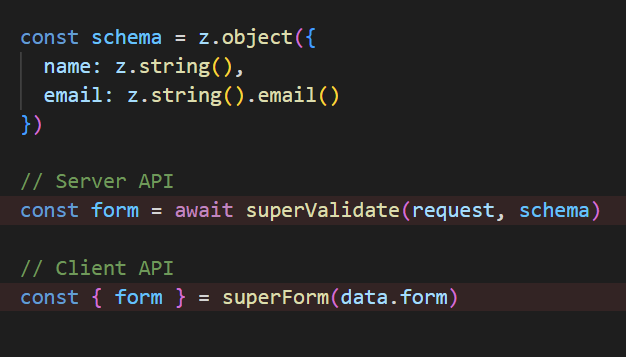
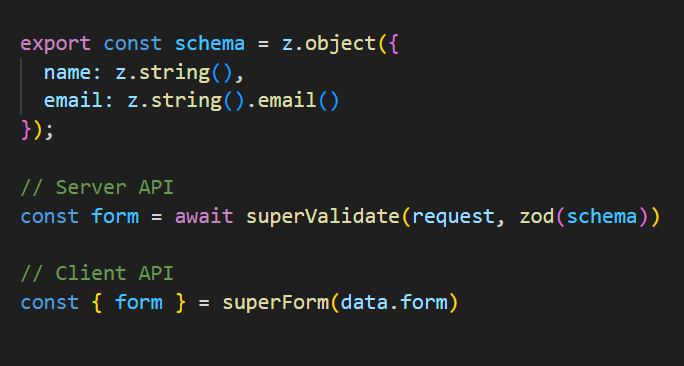
WIP

diff --git a/src/routes/Gallery.svelte b/src/routes/Gallery.svelte
@@ -14,22 +14,22 @@
     [
       nesteddata,
       'Nested data',
-      'Use any kind of nested data structure with Superforms. Coercion to and from Date, arrays, etc, is automatic.'
+      'Use any kind of <a href="/concepts/nested-data/">nested data structure</a> with Superforms. Coercion to and from Date, arrays, etc, is automatic.'
     ],
     [
       multipleforms,
       'Multiple forms on the same page',
-      'Superforms handles multiple forms in a straightforward manner, without you having to worry about collisions in <code>PageData</code> and <code>ActionData</code>.'
+      'Superforms handles <a href="/concepts/multiple-forms/">multiple forms</a> in a straightforward manner, without you having to worry about collisions in <code>PageData</code> and <code>ActionData</code>.'
     ],
     [
       tainted,
       'Tainted fields',
-      'Prevent data loss by alerting the user, when navigating away from a modified form.'
+      'Prevent data loss by <a href="/concepts/tainted/">marking fields as tainted</a> and alerting the user, when navigating away from a modified form.'
     ],
     [
       clientvalidation,
       'Client-side validation',
-      'Real time client-side validation, with automatic centering and focusing on error fields.'
+      'Real time <a href="/concepts/client-validation/">client-side validation</a>, with automatic centering and <a href="/concepts/error-handling/#errorselector">focusing on error fields</a>.'
     ],
     [
       spinner,

diff --git a/src/routes/get-started/[...lib]/+page.md b/src/routes/get-started/[...lib]/+page.md
@@ -235,11 +235,11 @@ The Superform server API is called `superValidate`. You can call it in two ways 
 
 ### Empty form
 
-If you want the form to be initially empty, just pass the schema as in the example above, and it will be filled with default values based on the schema. For example, a `string` field results in an empty string, unless you have set a default.
+If you want the form to be initially empty, just pass the adapter as in the example above, and the form will be filled with default values based on the schema. For example, a `string` field results in an empty string, unless you have set a default.
 
 ### Populate form from database
 
-If you want to populate the form, you can send data to the form as the first parameter, schema second, like this:
+If you want to populate the form, you can send data to `superValidate` as the first parameter, adapter second, like this:
 
 ```ts
 export const load = async ({ params }) => {
@@ -256,17 +256,17 @@ export const load = async ({ params }) => {
 };
 ```
 
-As long as the data partially matches the schema, you can pass it directly to `superValidate`. This is especially useful for backend interfaces, where the form usually should be populated based on a url like `/users/123`.
+As long as the data partially matches the schema, you can pass it directly to `superValidate`. This is useful for backend interfaces, where the form should usually be populated based on a url like `/users/123`.
 
-> Errors will be displayed as default when the form is populated, but not when empty. You can modify this behavior [with an option](/concepts/error-handling#initial-form-errors).
+> Errors will be displayed when the form is populated, but not when empty. You can modify this behavior [with an option](/concepts/error-handling#initial-form-errors).
 
 ### Important note about return values
 
-Unless you call `redirect` or `error`, you should **always** return the form object to the client, either directly or through a helper function. The name of the variable doesn't matter; you can call it `{ loginForm }` or anything else, but it needs to be returned like this in all code paths that returns, both in load functions and form actions.
+Unless you call the SvelteKit `redirect` or `error` functions, you should **always** return the form object to the client, either directly or through a helper function. The name of the variable doesn't matter; you can call it `{ loginForm }` or anything else, but it needs to be returned like this in all code paths that returns, both in load functions and form actions.
 
 ### Displaying the form
 
-The `superValidate` function returns the data required to instantiate a form on the client, which is now available in `+page.svelte` as `data.form`, as we did `return { form }`. There, we'll use the client part of the API:
+The `superValidate` function returns the data required to instantiate a form on the client, now available in `+page.svelte` as `data.form`, as we did `return { form }`. There, we'll use the client part of the API:
 
 **src/routes/+page.svelte**
 
@@ -301,7 +301,7 @@ This is what the form should look like now:
 
 ### Debugging
 
-We can see that the form has been populated with the default values. However, let's add the debugging component [SuperDebug](/super-debug) to gain more insight:
+We can see that the form has been populated with the default values. But let's add the debugging component [SuperDebug](/super-debug) to gain more insight:
 
 **src/routes/+page.svelte**
 
@@ -373,12 +373,12 @@ This is the validation object returned from `superValidate`, containing the data
 | **posted**      | Tells you if the data was posted (in a form action) or not (in a load function).                                                                                                       |
 | **data**        | The posted data, which should be returned to the client using `fail` if not valid.                                                                                                     |
 | **errors**      | An object with all validation errors, in a structure reflecting the data.                                                                                                              |
+| **message**     | (optional) Can be set as a [status message](/concepts/messages). |
 
-There are some optional properties as well, only being sent in the load function:
+There are some other properties as well, that are only being sent in the load function:
 
 | Property           | Purpose |
 | ------------------ | ------- |
-| **message**     | Can be set as a [status message](/concepts/messages). |
 | **constraints** | An object with [HTML validation constraints](https://developer.mozilla.org/en-US/docs/Learn/Forms/Form_validation#using_built-in_form_validation), that can be spread on input fields. |
 | **shape**       | Used internally in error handling. |
 
@@ -437,7 +437,7 @@ There are no hidden DOM manipulations or other secrets; it's just HTML attribute
 
 As a last step, let's add progressive enhancement, so the JS users will have a better experience. It's also required to use for example client-side validation and events, and of course to avoid reloading the page when the form is posted.
 
-This is simply added with `enhance`, returned from `superForm`:
+This is simply done with `enhance`, returned from `superForm`:
 
 ```svelte
 <script lang="ts">
@@ -449,7 +449,7 @@ This is simply added with `enhance`, returned from `superForm`:
 <form method="POST" use:enhance>
 ```
 
-Now the page won't fully reload when submitting, and we unlock lots of client-side features like events, timers, auto error focus, etc, that you can read about under the Concepts section in the navigation.
+Now the page won't fully reload when submitting, and we unlock lots of client-side features like timers for [loading spinners](/concepts/timers), [auto error focus](/concepts/error-handling#errorselector), [tainted fields](/concepts/tainted), etc, that you can read about under the Concepts section in the navigation.
 
 The `use:enhance` action takes no arguments; instead, events are used to hook into the SvelteKit use:enhance parameters and more. Check out the [events page](/concepts/events) for details.
 

diff --git a/src/routes/whats-new-v2/+page.md b/src/routes/whats-new-v2/+page.md
@@ -35,9 +35,9 @@ const schema = z.object({
 
 ### Multi-type unions can only be used when dataType is 'json'
 
-Unions are also quite difficult to make assumptions about in `FormData`. If `"123"` was posted (as all posted values are strings), should it be parsed as a string or a number, in the above case?
+Unions are also quite difficult to make assumptions about in `FormData`. If `"123"` was posted (as all posted values are strings), should it be parsed as a string or a number in the above case?
 
-There is no obvious answer, so unions **with more than one type** can only be used when the `dataType` option is set to `'json'` (which will bypass the whole `FormData` parsing, as the form data is serialized).
+There is no obvious answer, so unions **with more than one type** can only be used when the `dataType` option is set to `'json'` (which will bypass the whole `FormData` parsing by serializing the form data).
 
 ## Form is reset by default
 

diff --git a/src/routes/+page.md b/src/routes/+page.md
@@ -12,7 +12,7 @@
 
 <Header />
 
-Superforms is a SvelteKit library that brings you a comprehensive solution for **server and client validation**, and **client-side display** of forms. It supports a multitude of validation libraries: 
+Superforms is a SvelteKit form library that brings you a comprehensive solution for **server and client form validation**. It supports a multitude of validation libraries: 
 
 <Libraries />
 
